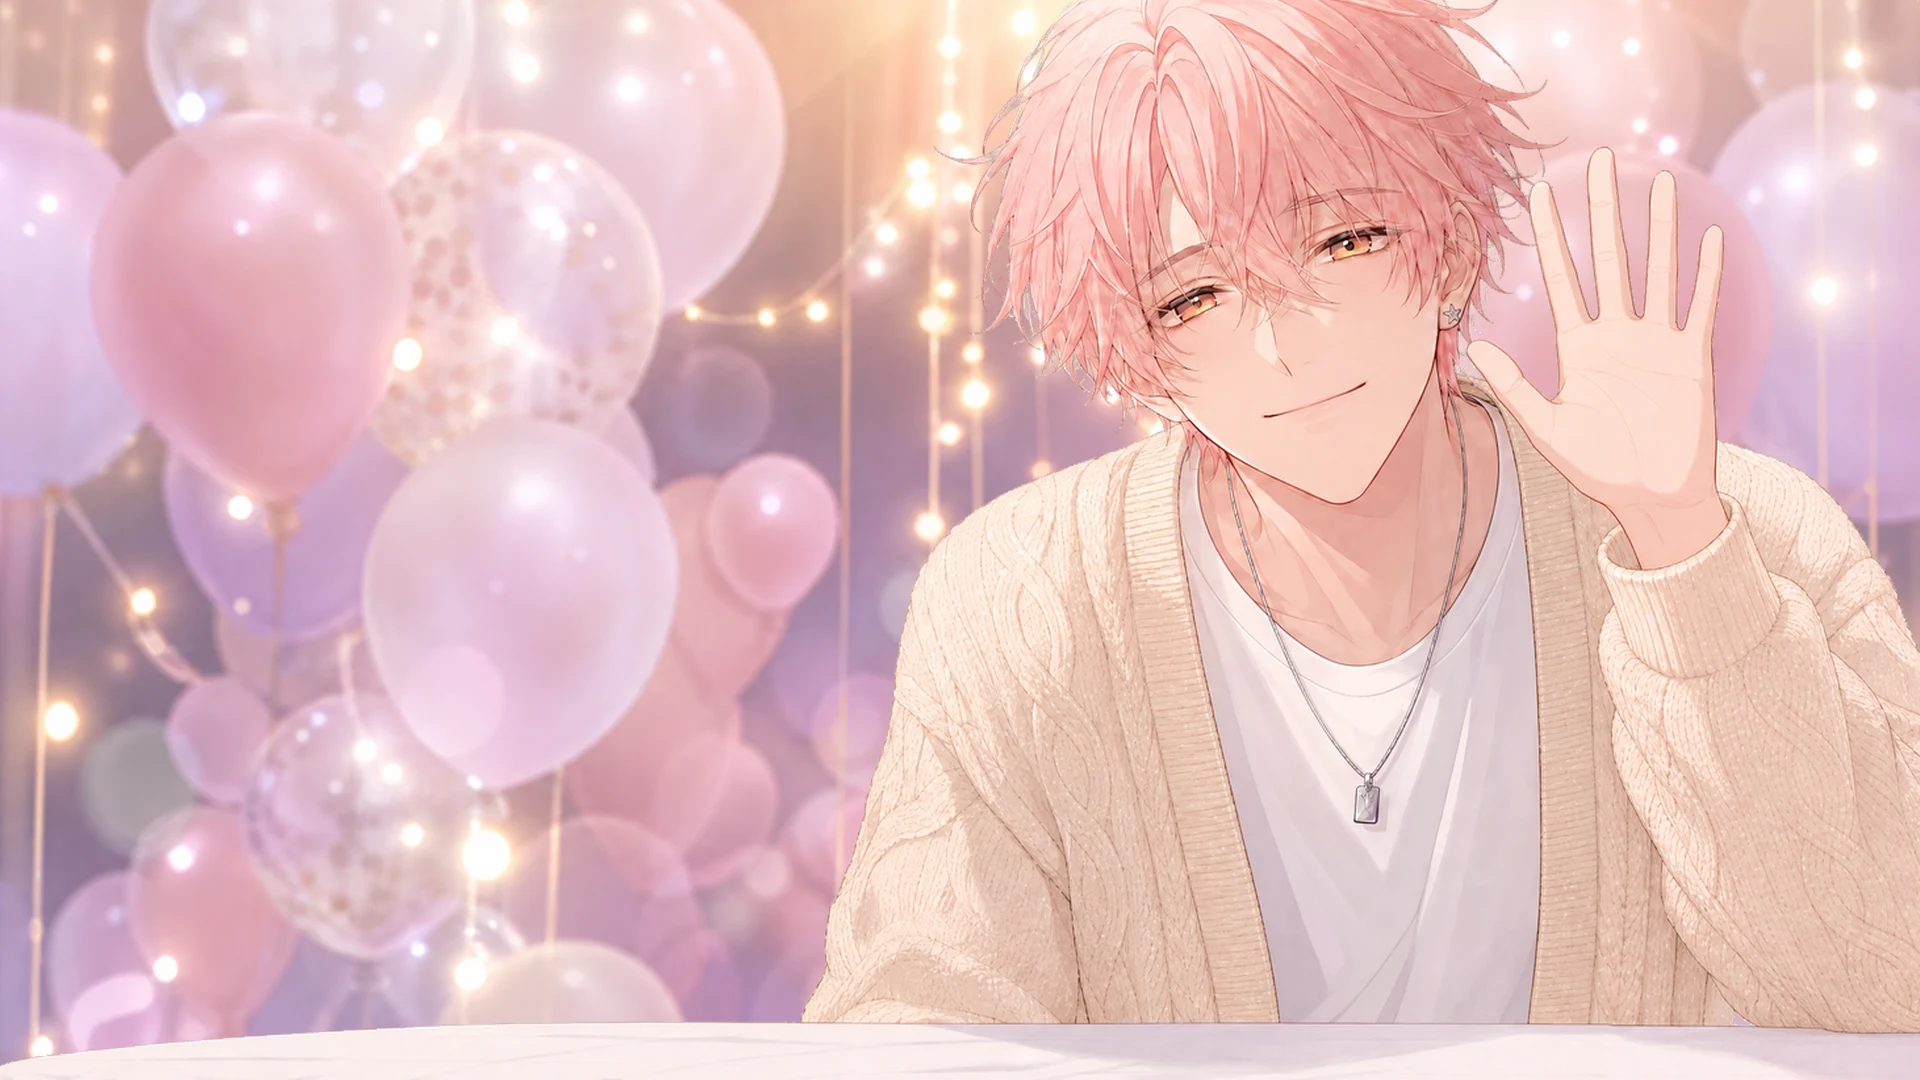
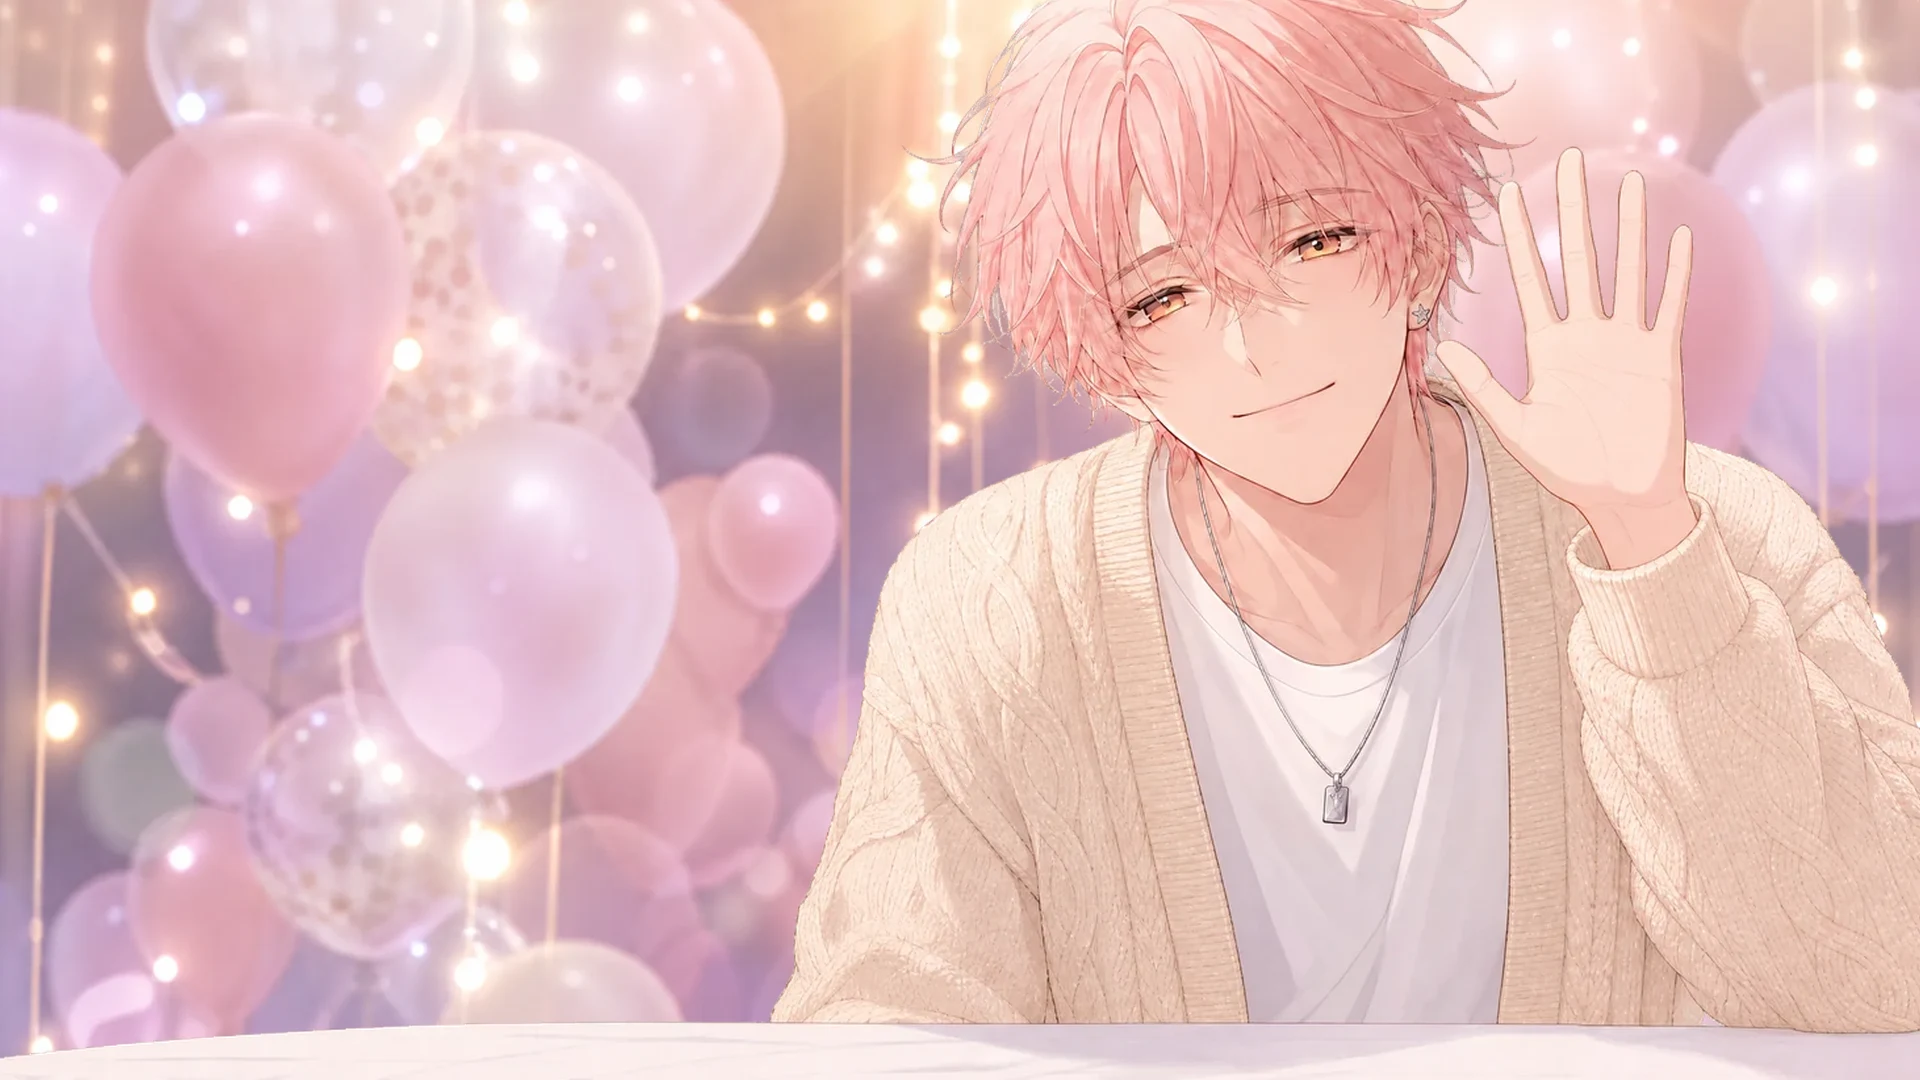
Demo20_HinataHandshake: figures moved a little so complete edges sit ≥ 1 % inside / cut edges ≥ 1.5 % outside the frame (place_view.py, no rebuild)

diff --git a/demos/for-women/Demo20_HinataHandshake/media/layers.js b/demos/for-women/Demo20_HinataHandshake/media/layers.js
@@ -342,7 +342,7 @@ window.MOHEAT_LAYERS = {
     "src": "art/char_wave.webp?v=f7eb28f7",
     "w": 1700,
     "h": 863,
-    "x": 0.5667,
+    "x": 0.5507,
     "y": 1.02,
     "height": 1.05,
     "box": [
